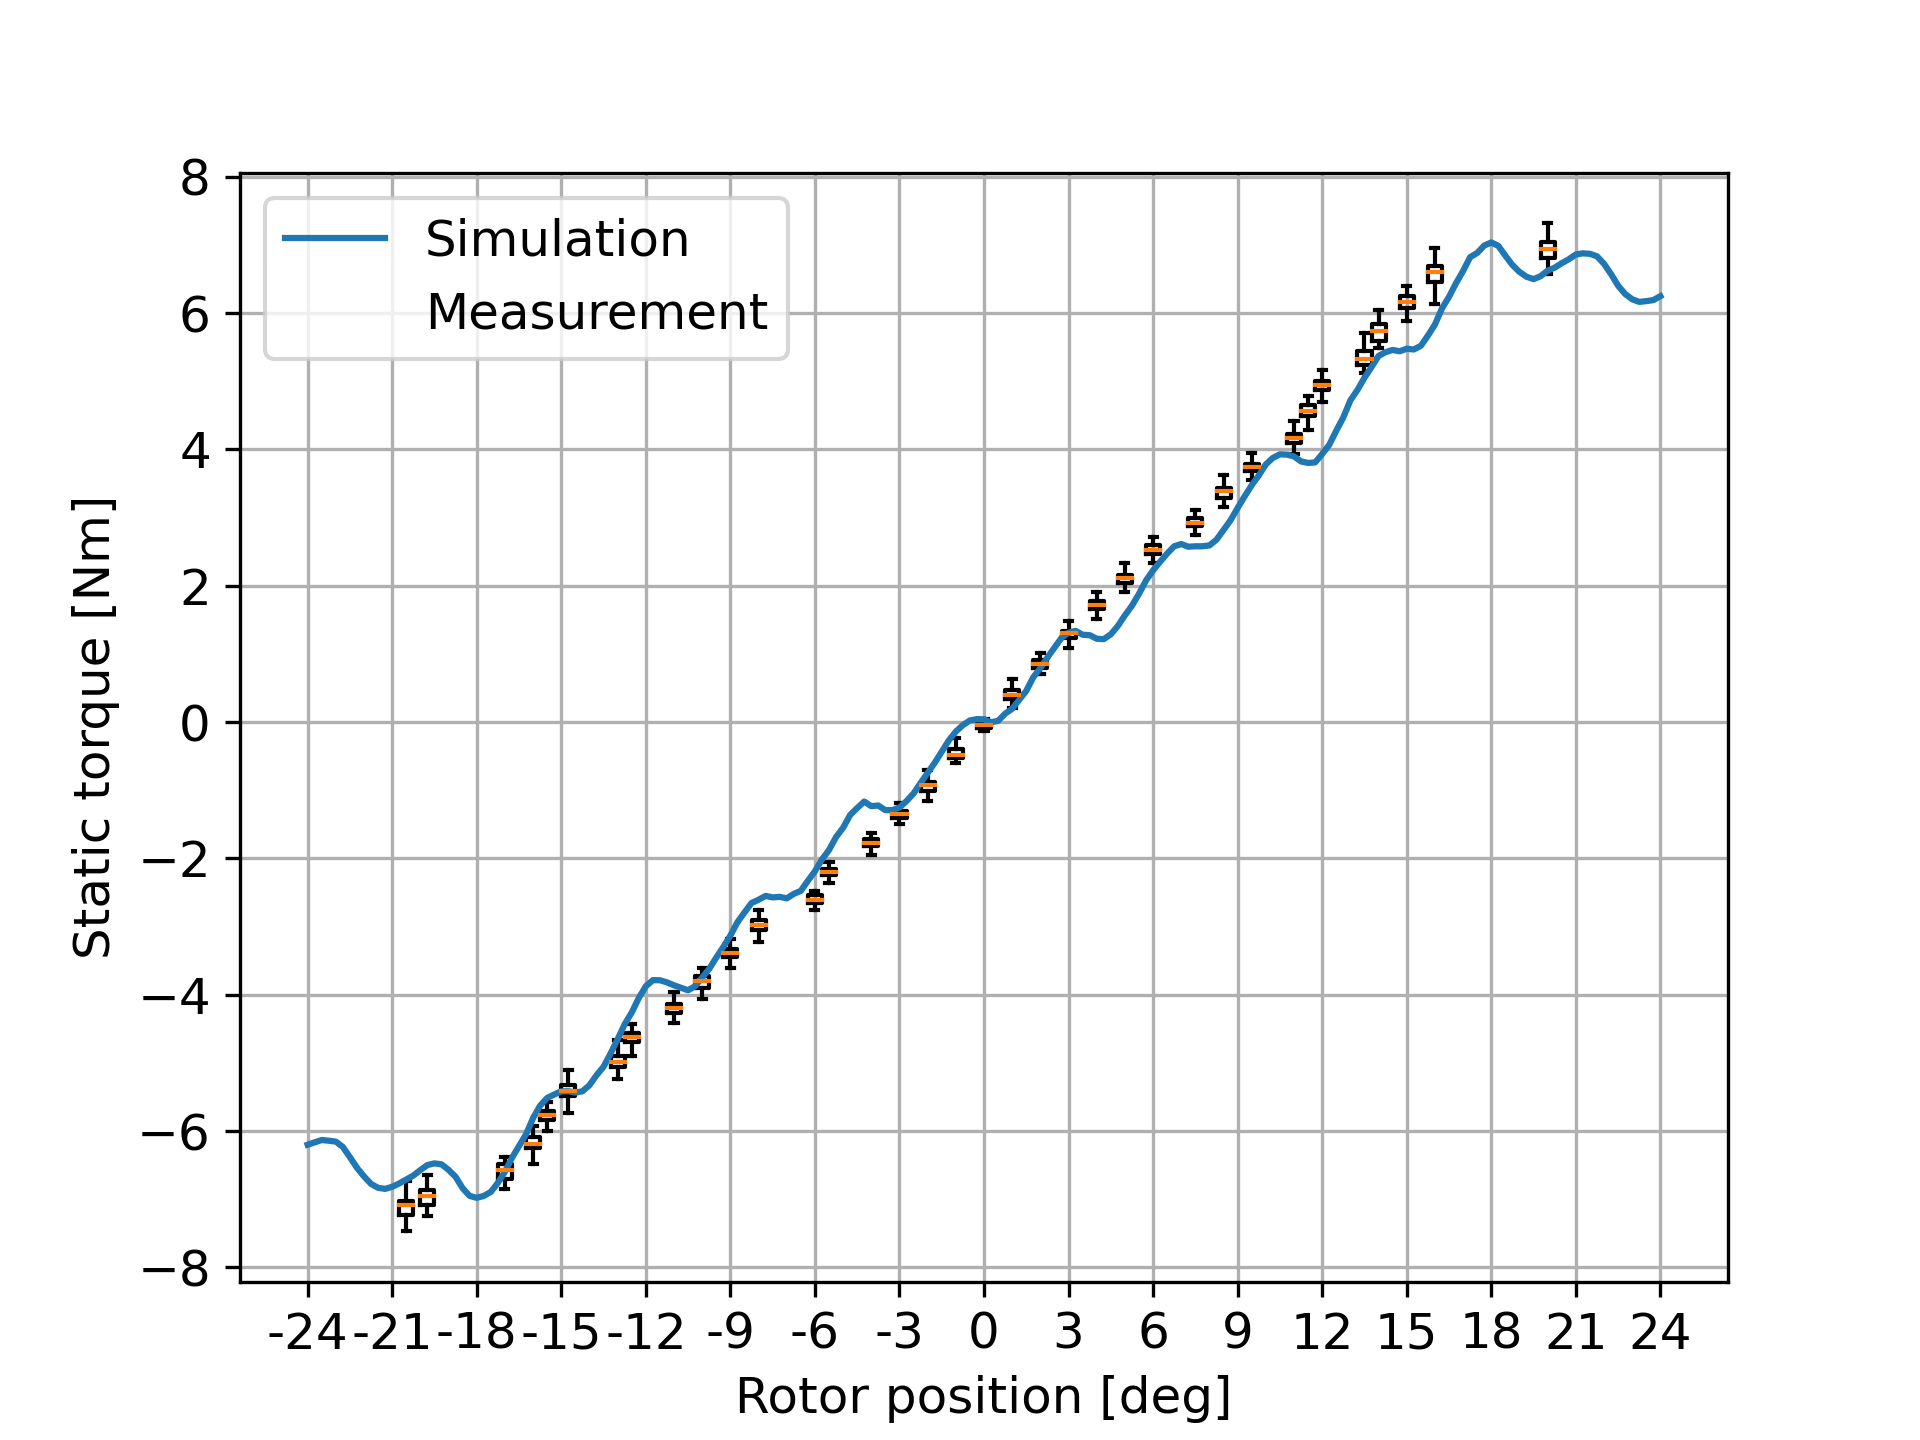
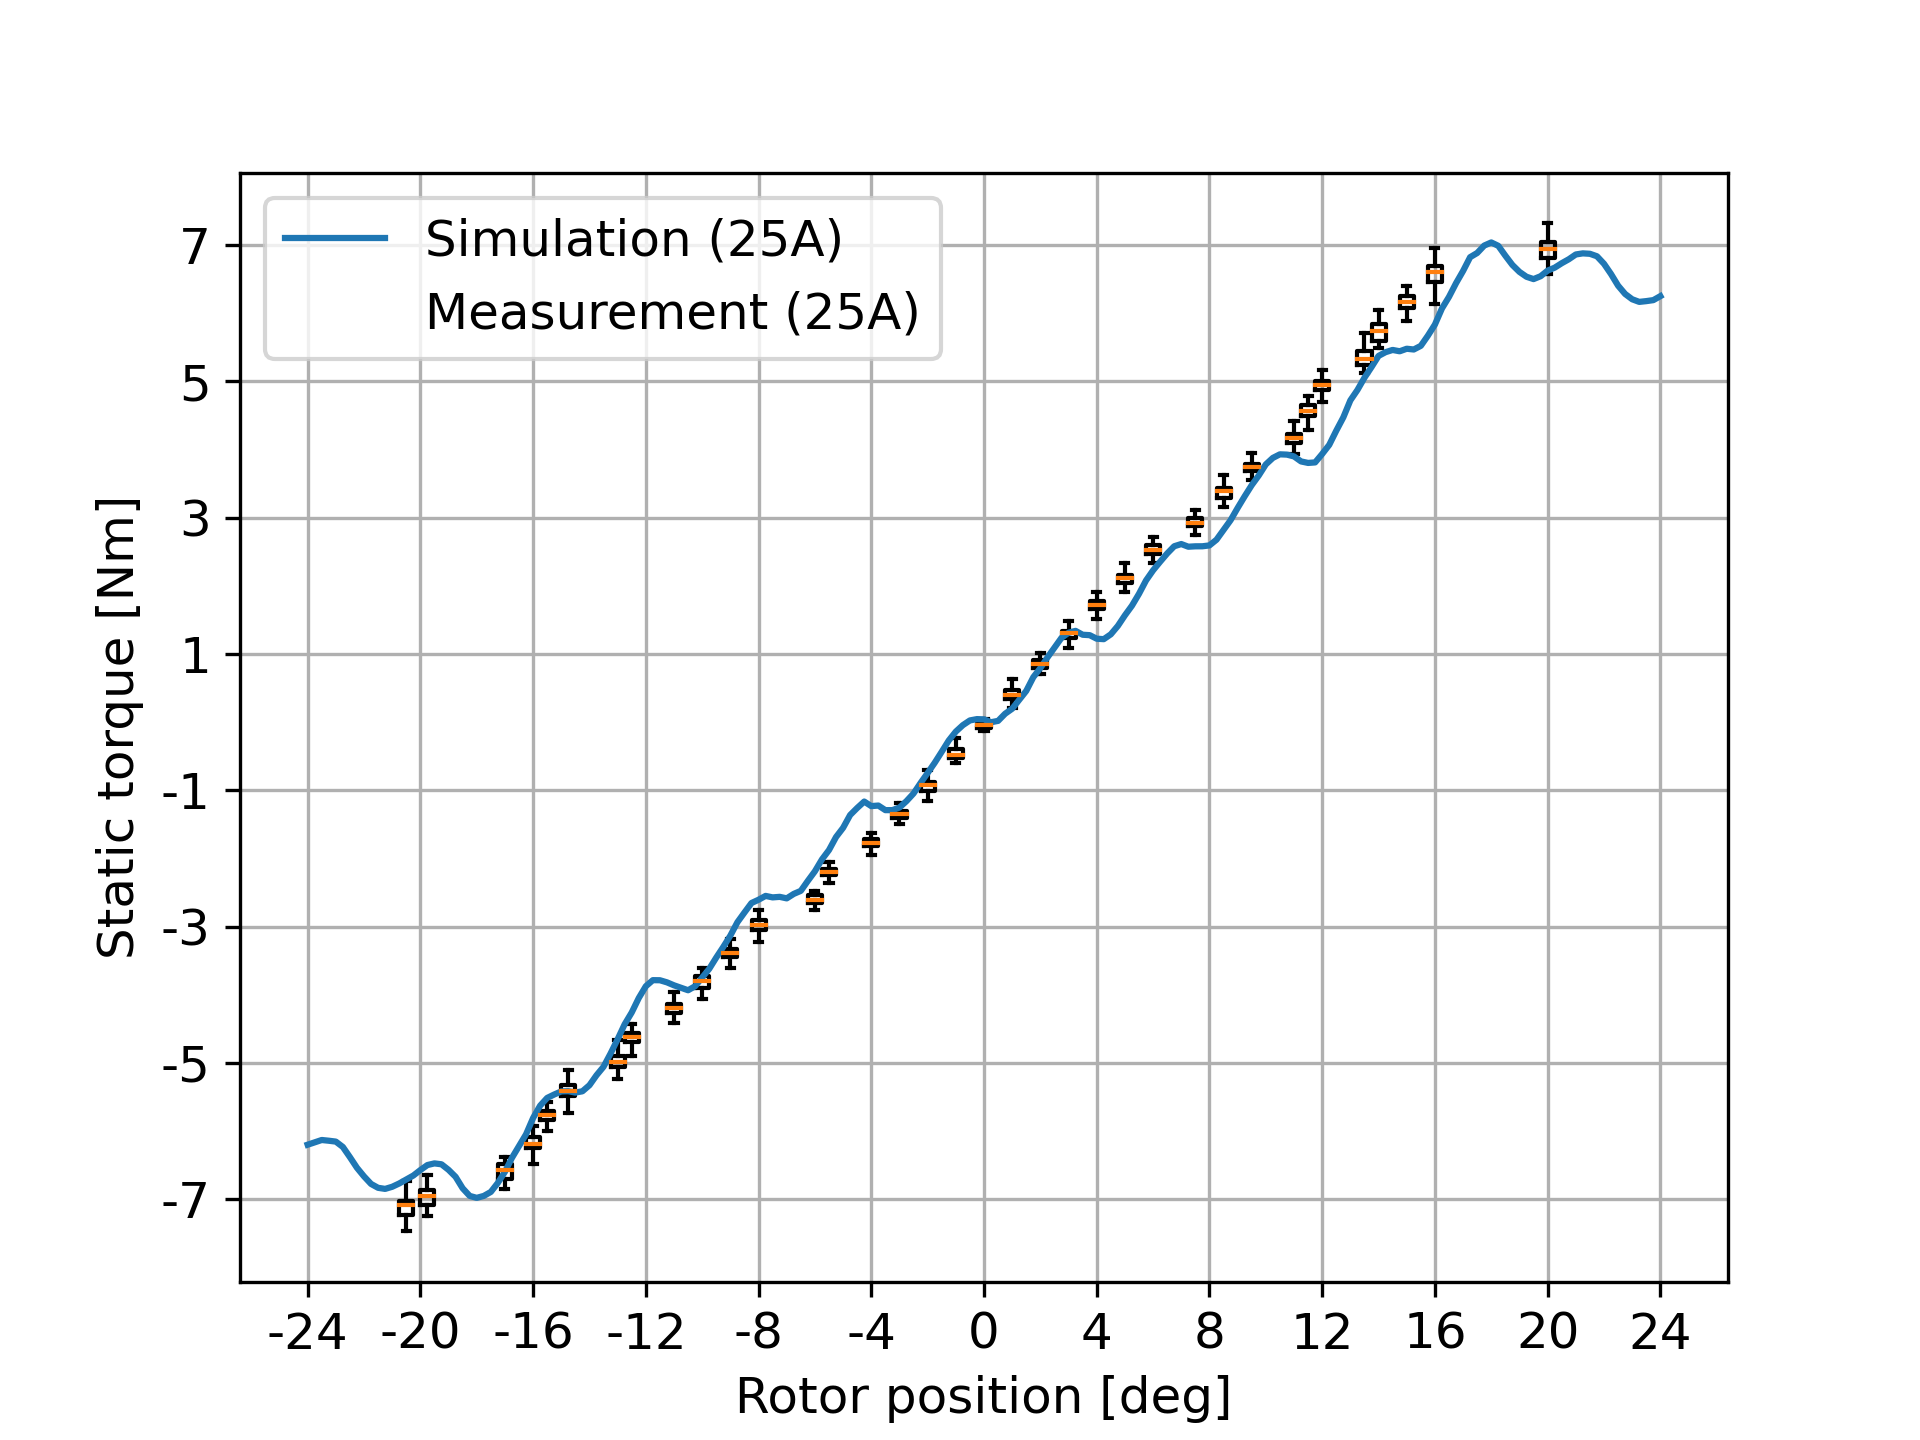
With measurement.

diff --git a/copper/refine_measurement.py b/copper/refine_measurement.py
@@ -3,8 +3,10 @@ import numpy as np
 import pandas as pd
 import matplotlib.patches as mpatches
 
-#  0 - 25An, 1 - 25Ap
-switch = 2
+#  0 - 25An, 1 - 25Ap, 2 - 25Afull
+#  3 - 35An, 4 - 35Ap, 5 - 35Afull
+#  6 - 12An, 7 - 12Ap, 8 - 12Afull
+switch = 8
 if switch == 0:
 
     file_path = 'measurement/25A_negative.dat'
@@ -138,20 +140,291 @@ if switch == 2:
                 df.iloc[:, 32].dropna(), df.iloc[:, 33].dropna(), df.iloc[:, 34].dropna(), df.iloc[:, 35].dropna()]
 
     plt.boxplot(y_values, positions=x_values, showfliers=False)
-    plt.plot(mes['Angle'], mes['Torque'], label='Simulation')
+    plt.plot(mes['Angle'], mes['Torque'], label='Simulation (25A)')
 
     handles, labels = plt.gca().get_legend_handles_labels()  # get existing handles and labels
     empty_patch = mpatches.Patch(color='none', label='Extra label')  # create a patch with no color
     handles.append(empty_patch)  # add new patches and labels to list
-    labels.append("Measurement")
+    labels.append("Measurement (25A)")
     plt.legend(handles, labels, fontsize=12)  # apply new handles and labels to plot
     # plt.legend(fontsize=12)
 
-    plt.xticks(np.arange(-24, 25, 3), np.arange(-24, 25, 3), fontsize=12)
-    plt.yticks(fontsize=12)
+    plt.xticks(np.arange(-24, 25, 4), np.arange(-24, 25, 4), fontsize=12)
+    plt.yticks(np.arange(-7, 8, 2), np.arange(-7, 8, 2), fontsize=12)
     plt.xlabel('Rotor position [deg]', fontsize=12)
     plt.ylabel('Static torque [Nm]', fontsize=12)
     plt.grid()
 
     plt.savefig('media/wp0i25a24_24r1l78.png', dpi=300)
+    plt.show()
+
+if switch == 3:
+
+    file_path = 'measurement/35A_negative.dat'
+    data = pd.read_csv(file_path, delimiter='\t', header=None)
+    data = data.replace(',', '.', regex=True)
+    data = data.apply(pd.to_numeric, errors='coerce')
+    df = pd.DataFrame()
+    df['Torque'] = data.transpose()
+    df.drop(df.index[1288:], inplace=True)
+    df['Torque'].plot()
+    plt.show()
+
+    subset1 = df.iloc[0:28, :].reset_index(drop=True)
+    subset2 = df.iloc[29:79, :].reset_index(drop=True)
+    subset3 = df.iloc[80:130, :].reset_index(drop=True)
+    subset4 = df.iloc[131:180, :].reset_index(drop=True)
+    subset5 = df.iloc[184:237, :].reset_index(drop=True)
+    subset6 = df.iloc[240:290, :].reset_index(drop=True)
+    subset7 = df.iloc[293:333, :].reset_index(drop=True)
+    subset8 = df.iloc[339:379, :].reset_index(drop=True)
+    subset9 = df.iloc[385:427, :].reset_index(drop=True)
+    subset10 = df.iloc[431:480, :].reset_index(drop=True)
+    subset11 = df.iloc[485:538, :].reset_index(drop=True)
+    subset12 = df.iloc[540:590, :].reset_index(drop=True)
+    subset13 = df.iloc[591:660, :].reset_index(drop=True)
+    subset14 = df.iloc[665:740, :].reset_index(drop=True)
+    subset15 = df.iloc[744:807, :].reset_index(drop=True)
+    subset16 = df.iloc[812:832, :].reset_index(drop=True)
+
+    df_sub = pd.concat([subset1, subset2, subset3, subset4, subset5, subset6, subset7, subset8, subset9, subset10,
+                        subset11, subset12, subset13, subset14, subset15, subset16], axis=1, ignore_index=True)
+
+    result35An = pd.DataFrame()
+
+    for i in range(df_sub.shape[1]):
+        average = df_sub.iloc[:, i].mean(skipna=True).round(3)
+        minimum = df_sub.iloc[:, i].min(skipna=True).round(3)
+        maximum = df_sub.iloc[:, i].max(skipna=True).round(3)
+
+        result35An[str(i)] = pd.DataFrame([average, minimum, maximum], index=['Average', 'Minimum', 'Maximum'])
+
+    print(result35An)
+    result35An.to_json('measurement/results35An.json')
+    df_sub.to_json('measurement/results35An_sub.json')
+    result35An.boxplot()
+    plt.show()
+
+if switch == 4:
+
+    file_path = 'measurement/35A_positive.dat'
+    data = pd.read_csv(file_path, delimiter='\t', header=None)
+    data = data.replace(',', '.', regex=True)
+    data = data.apply(pd.to_numeric, errors='coerce')
+    df = pd.DataFrame()
+    df['Torque'] = data.transpose()
+    # df.drop(df.index[1210:], inplace=True)
+    df = df.iloc[788:1586, :].reset_index(drop=True)
+    df = df.iloc[::-1].reset_index(drop=True)
+    print(df)
+    df['Torque'].plot()
+    plt.show()
+
+    subset1 = df.iloc[0:99, :].reset_index(drop=True)
+    subset2 = df.iloc[104:162, :].reset_index(drop=True)
+    subset3 = df.iloc[167:207, :].reset_index(drop=True)
+    subset4 = df.iloc[215:257, :].reset_index(drop=True)
+    subset5 = df.iloc[260:299, :].reset_index(drop=True)
+    subset6 = df.iloc[302:349, :].reset_index(drop=True)
+    subset7 = df.iloc[355:406, :].reset_index(drop=True)
+    subset8 = df.iloc[412:458, :].reset_index(drop=True)
+    subset9 = df.iloc[463:514, :].reset_index(drop=True)
+    subset10 = df.iloc[518:574, :].reset_index(drop=True)
+    subset11 = df.iloc[579:624, :].reset_index(drop=True)
+    subset12 = df.iloc[630:687, :].reset_index(drop=True)
+    subset13 = df.iloc[691:737, :].reset_index(drop=True)
+    subset14 = df.iloc[743:798, :].reset_index(drop=True)
+
+    df_sub = pd.concat(
+        [subset1, subset2, subset3, subset4, subset5, subset6, subset7, subset8, subset9, subset10, subset11,
+         subset12, subset13, subset14], axis=1, ignore_index=True)
+
+    result35Ap = pd.DataFrame()
+
+    for i in range(df_sub.shape[1]):
+        average = df_sub.iloc[:, i].mean(skipna=True).round(3)
+        minimum = df_sub.iloc[:, i].min(skipna=True).round(3)
+        maximum = df_sub.iloc[:, i].max(skipna=True).round(3)
+
+        result35Ap[str(i)] = pd.DataFrame([average, minimum, maximum], index=['Average', 'Minimum', 'Maximum'])
+
+    print(result35Ap)
+    result35Ap.to_json('measurement/results35Ap.json')
+    df_sub.to_json('measurement/results35Ap_sub.json')
+
+    result35Ap.boxplot()
+    plt.show()
+
+if switch == 5:
+    df1 = pd.read_json('measurement/results35Ap_sub.json')
+    df2 = pd.read_json('measurement/results35An_sub.json')
+    df = pd.concat([df1, df2], axis=1)
+    df = df.reset_index(drop=True)
+    df.columns = [np.arange(0, 30, 1)]
+    df = df.drop(df.columns[[13]], axis=1)
+    df.columns = [np.arange(0, 29, 1)]
+    print(df.to_string())
+
+    mes = pd.read_json('data/wp0i35a24_24r025l78.json')
+    mes['Angle'] = np.linspace(-24, 24, len(mes['Torque']))
+    print(mes)
+
+    df3 = pd.read_json('measurement/results35Ap.json')
+    df4 = pd.read_json('measurement/results35An.json')
+    df5 = pd.concat([df3, df4], axis=1)
+    df5 = df5.reset_index(drop=True)
+
+
+    x_values = [-19.5, -16, -15, -14, -12.5, -11.5, -9.5, -8, -6.5, -5, -3.5, -2, -1, 0, 1, 2.5, 4, 5.5, 7.5, 8.5, 11,
+                12, 13, 14.5, 15, 16, 19, 20, 20.5]
+
+    y_values = [df.iloc[:, 0].dropna(), df.iloc[:, 1].dropna(), df.iloc[:, 2].dropna(), df.iloc[:, 3].dropna(),
+                df.iloc[:, 4].dropna(), df.iloc[:, 5].dropna(), df.iloc[:, 6].dropna(), df.iloc[:, 7].dropna(),
+                df.iloc[:, 8].dropna(), df.iloc[:, 9].dropna(), df.iloc[:, 10].dropna(), df.iloc[:, 11].dropna(),
+                df.iloc[:, 12].dropna(), df.iloc[:, 13].dropna(), df.iloc[:, 14].dropna(), df.iloc[:, 15].dropna(),
+                df.iloc[:, 16].dropna(), df.iloc[:, 17].dropna(), df.iloc[:, 18].dropna(), df.iloc[:, 19].dropna(),
+                df.iloc[:, 20].dropna(), df.iloc[:, 21].dropna(), df.iloc[:, 22].dropna(), df.iloc[:, 23].dropna(),
+                df.iloc[:, 24].dropna(), df.iloc[:, 25].dropna(), df.iloc[:, 26].dropna(), df.iloc[:, 27].dropna(),
+                df.iloc[:, 28].dropna()]
+
+    plt.boxplot(y_values, positions=x_values, showfliers=False)
+    plt.plot(mes['Angle'], -mes['Torque'], label='Simulation (35A)')
+
+    handles, labels = plt.gca().get_legend_handles_labels()  # get existing handles and labels
+    empty_patch = mpatches.Patch(color='none', label='Extra label')  # create a patch with no color
+    handles.append(empty_patch)  # add new patches and labels to list
+    labels.append("Measurement (35A)")
+    plt.legend(handles, labels, fontsize=12)  # apply new handles and labels to plot
+
+    plt.xticks(np.arange(-24, 25, 4), np.arange(-24, 25, 4), fontsize=12)
+    plt.yticks(np.arange(-14, 16, 3), np.arange(-14, 16, 3), fontsize=12)
+    plt.xlabel('Rotor position [deg]', fontsize=12)
+    plt.ylabel('Static torque [Nm]', fontsize=12)
+    plt.grid()
+
+    plt.savefig('media/wp0i35a24_24r1l78.png', dpi=300)
+    plt.show()
+
+if switch == 6:
+
+    file_path = 'measurement/12A_negative.dat'
+    data = pd.read_csv(file_path, delimiter='\t', header=None)
+    data = data.replace(',', '.', regex=True)
+    data = data.apply(pd.to_numeric, errors='coerce')
+    df = pd.DataFrame()
+    df['Torque'] = data.transpose()
+    df.drop(df.index[780:], inplace=True)
+    df['Torque'].plot()
+    plt.show()
+
+    subset1 = df.iloc[40:86, :].reset_index(drop=True)
+    subset2 = df.iloc[88:148, :].reset_index(drop=True)
+    subset3 = df.iloc[167:209, :].reset_index(drop=True)
+    subset4 = df.iloc[214:267, :].reset_index(drop=True)
+    subset5 = df.iloc[276:341, :].reset_index(drop=True)
+    subset6 = df.iloc[349:399, :].reset_index(drop=True)
+    subset7 = df.iloc[405:478, :].reset_index(drop=True)
+    subset8 = df.iloc[493:567, :].reset_index(drop=True)
+    subset9 = df.iloc[573:632, :].reset_index(drop=True)
+    subset10 = df.iloc[633:717, :].reset_index(drop=True)
+    subset11 = df.iloc[730:780, :].reset_index(drop=True)
+
+    df_sub = pd.concat([subset1, subset2, subset3, subset4, subset5, subset6, subset7, subset8, subset9, subset10,
+                        subset11], axis=1, ignore_index=True)
+
+    result12An = pd.DataFrame()
+
+    for i in range(df_sub.shape[1]):
+        average = df_sub.iloc[:, i].mean(skipna=True).round(3)
+        minimum = df_sub.iloc[:, i].min(skipna=True).round(3)
+        maximum = df_sub.iloc[:, i].max(skipna=True).round(3)
+
+        result12An[str(i)] = pd.DataFrame([average, minimum, maximum], index=['Average', 'Minimum', 'Maximum'])
+
+    print(result12An)
+    result12An.to_json('measurement/results12An.json')
+    df_sub.to_json('measurement/results12An_sub.json')
+    result12An.boxplot()
+    plt.show()
+
+if switch == 7:
+
+    file_path = 'measurement/12A_positive.dat'
+    data = pd.read_csv(file_path, delimiter='\t', header=None)
+    data = data.replace(',', '.', regex=True)
+    data = data.apply(pd.to_numeric, errors='coerce')
+    df = pd.DataFrame()
+    df['Torque'] = data.transpose()
+    # df.drop(df.index[1210:], inplace=True)
+    df = df.iloc[0:788, :].reset_index(drop=True)
+    df = df.iloc[::-1].reset_index(drop=True)
+    print(df)
+    df['Torque'].plot()
+    plt.show()
+
+    subset1 = df.iloc[0:99, :].reset_index(drop=True)
+    subset2 = df.iloc[104:162, :].reset_index(drop=True)
+    subset3 = df.iloc[167:207, :].reset_index(drop=True)
+    subset4 = df.iloc[215:257, :].reset_index(drop=True)
+    subset5 = df.iloc[260:299, :].reset_index(drop=True)
+    subset6 = df.iloc[302:349, :].reset_index(drop=True)
+    subset7 = df.iloc[355:406, :].reset_index(drop=True)
+    subset8 = df.iloc[412:458, :].reset_index(drop=True)
+    subset9 = df.iloc[463:514, :].reset_index(drop=True)
+    subset10 = df.iloc[518:574, :].reset_index(drop=True)
+    subset11 = df.iloc[579:624, :].reset_index(drop=True)
+    subset12 = df.iloc[630:687, :].reset_index(drop=True)
+    subset13 = df.iloc[691:737, :].reset_index(drop=True)
+    subset14 = df.iloc[743:798, :].reset_index(drop=True)
+
+    df_sub = pd.concat(
+        [subset1, subset2, subset3, subset4, subset5, subset6, subset7, subset8, subset9, subset10, subset11,
+         subset12, subset13, subset14], axis=1, ignore_index=True)
+
+    result12Ap = pd.DataFrame()
+
+    for i in range(df_sub.shape[1]):
+        average = df_sub.iloc[:, i].mean(skipna=True).round(3)
+        minimum = df_sub.iloc[:, i].min(skipna=True).round(3)
+        maximum = df_sub.iloc[:, i].max(skipna=True).round(3)
+
+        result12Ap[str(i)] = pd.DataFrame([average, minimum, maximum], index=['Average', 'Minimum', 'Maximum'])
+
+    print(result12Ap)
+    result12Ap.to_json('measurement/results12Ap.json')
+    df_sub.to_json('measurement/results12Ap_sub.json')
+
+    result12Ap.boxplot()
+    plt.show()
+
+if switch == 8:
+    df = pd.read_json('measurement/results12An_sub.json')
+    print(df.to_string())
+
+    mes = pd.read_json('data/wp0i12a0_24r025l78.json')
+    mes['Angle'] = np.linspace(0, 24, len(mes['Torque']))
+    print(mes)
+
+    x_values = [0, 1, 2, 3.5, 5.5, 8, 9, 12, 16.5, 18.5, 20.5]
+
+    y_values = [df.iloc[:, 0].dropna(), df.iloc[:, 1].dropna(), df.iloc[:, 2].dropna(), df.iloc[:, 3].dropna(),
+                df.iloc[:, 4].dropna(), df.iloc[:, 5].dropna(), df.iloc[:, 6].dropna(), df.iloc[:, 7].dropna(),
+                df.iloc[:, 8].dropna(), df.iloc[:, 9].dropna(), df.iloc[:, 10].dropna()]
+
+    plt.boxplot(y_values, positions=x_values, showfliers=False)
+    plt.plot(mes['Angle'], -mes['Torque'], label='Simulation (12A)')
+
+    handles, labels = plt.gca().get_legend_handles_labels()  # get existing handles and labels
+    empty_patch = mpatches.Patch(color='none', label='Extra label')  # create a patch with no color
+    handles.append(empty_patch)  # add new patches and labels to list
+    labels.append("Measurement (12A)")
+    plt.legend(handles, labels, fontsize=12)  # apply new handles and labels to plot
+
+    plt.xticks(np.arange(0, 25, 4), np.arange(0, 25, 4), fontsize=12)
+    plt.yticks(fontsize=12)
+    plt.xlabel('Rotor position [deg]', fontsize=12)
+    plt.ylabel('Static torque [Nm]', fontsize=12)
+    plt.grid()
+
+    plt.savefig('media/wp0i12a0_24r1l78.png', dpi=300)
     plt.show()

diff --git a/copper/model_copper_wound.py b/copper/model_copper_wound.py
@@ -47,11 +47,10 @@ class SzEReluctanceMotor(BaseModel):
         self.msh_steel_stator = kwargs.get("msh_steel_stator", 1)  # Stator steel mesh size [mm]
         self.msh_steel_rotor = kwargs.get("msh_steel_rotor", 1)  # Rotor steel mesh size [mm]
         self.rotor_angle = kwargs.get("rotor_angle", 0)  # Rotor angle in mechanical degrees to 0 degrees [deg]
-        self.delta = kwargs.get("delta", -19)  # Offset of the rotor angle [°]
-        # self.delta = kwargs.get("delta", -11.25)  # Offset of the rotor angle [°]
+        self.delta = kwargs.get("delta", -11.25)  # Offset of the rotor angle [°]
 
         # Excitation setup
-        I0 = kwargs.get("I0", 25)  # Stator current of one phase [A]
+        I0 = kwargs.get("I0", 0)  # Stator current of one phase [A]
         alpha = kwargs.get("alpha", 0)  # Current angle [°]
         slot_area = 0.000142793  # area of the slot [m^2]
         Nturns = 8  # turns of the coil in one slot [u.]
@@ -74,7 +73,7 @@ class SzEReluctanceMotor(BaseModel):
         femm_metadata.file_metrics_name = self.file_solution
         femm_metadata.unit = "millimeters"
         femm_metadata.smartmesh = True
-        femm_metadata.depth = 70
+        femm_metadata.depth = 78
 
         self.platform = Femm(femm_metadata)
         self.snapshot = Snapshot(self.platform)

diff --git a/copper/simulation_copper_wound.py b/copper/simulation_copper_wound.py
@@ -12,14 +12,14 @@ def execute_model(model: SzEReluctanceMotor):
 
 @sim.register('static')
 def avg(model, modelparams, simparams, miscparams):
-    list = linspace(0, 90, 361)
-    models = [model(I0=25, rotor_angle=i) for i in list]
+    list = linspace(0, 24, 97)
+    models = [model(I0=12, rotor_angle=i) for i in list]
     with Pool() as pool:
         res = pool.map(execute_model, models)
 
     result = {'Torque': res}
 
-    with open(ModelDir.DATA / f'wp0i25a0_90r025l70.json', 'w', encoding='utf-8') as f:
+    with open(ModelDir.DATA / f'wp0i12a0_24r025l78.json', 'w', encoding='utf-8') as f:
         json.dump(result, f, indent=2, ensure_ascii=True)
 
     return result

diff --git a/copper/test.py b/copper/test.py
@@ -83,7 +83,7 @@ from numpy import linspace
 # #
 # # print(len(current))
 
-print(linspace(0, 90, 361))
+print(linspace(0, 24, 97))
 #
 # y = [0.0000, 0.0974, 0.1949, 0.3004, 0.3343, 0.3609, 0.3900, 0.4110, 0.4354, 0.4609, 0.4895, 0.5102,
 #                    0.5362, 0.5611, 0.5893, 0.6102, 0.6362, 0.6608, 0.6854, 0.7066, 0.7355, 0.7613, 0.7893, 0.8092,
